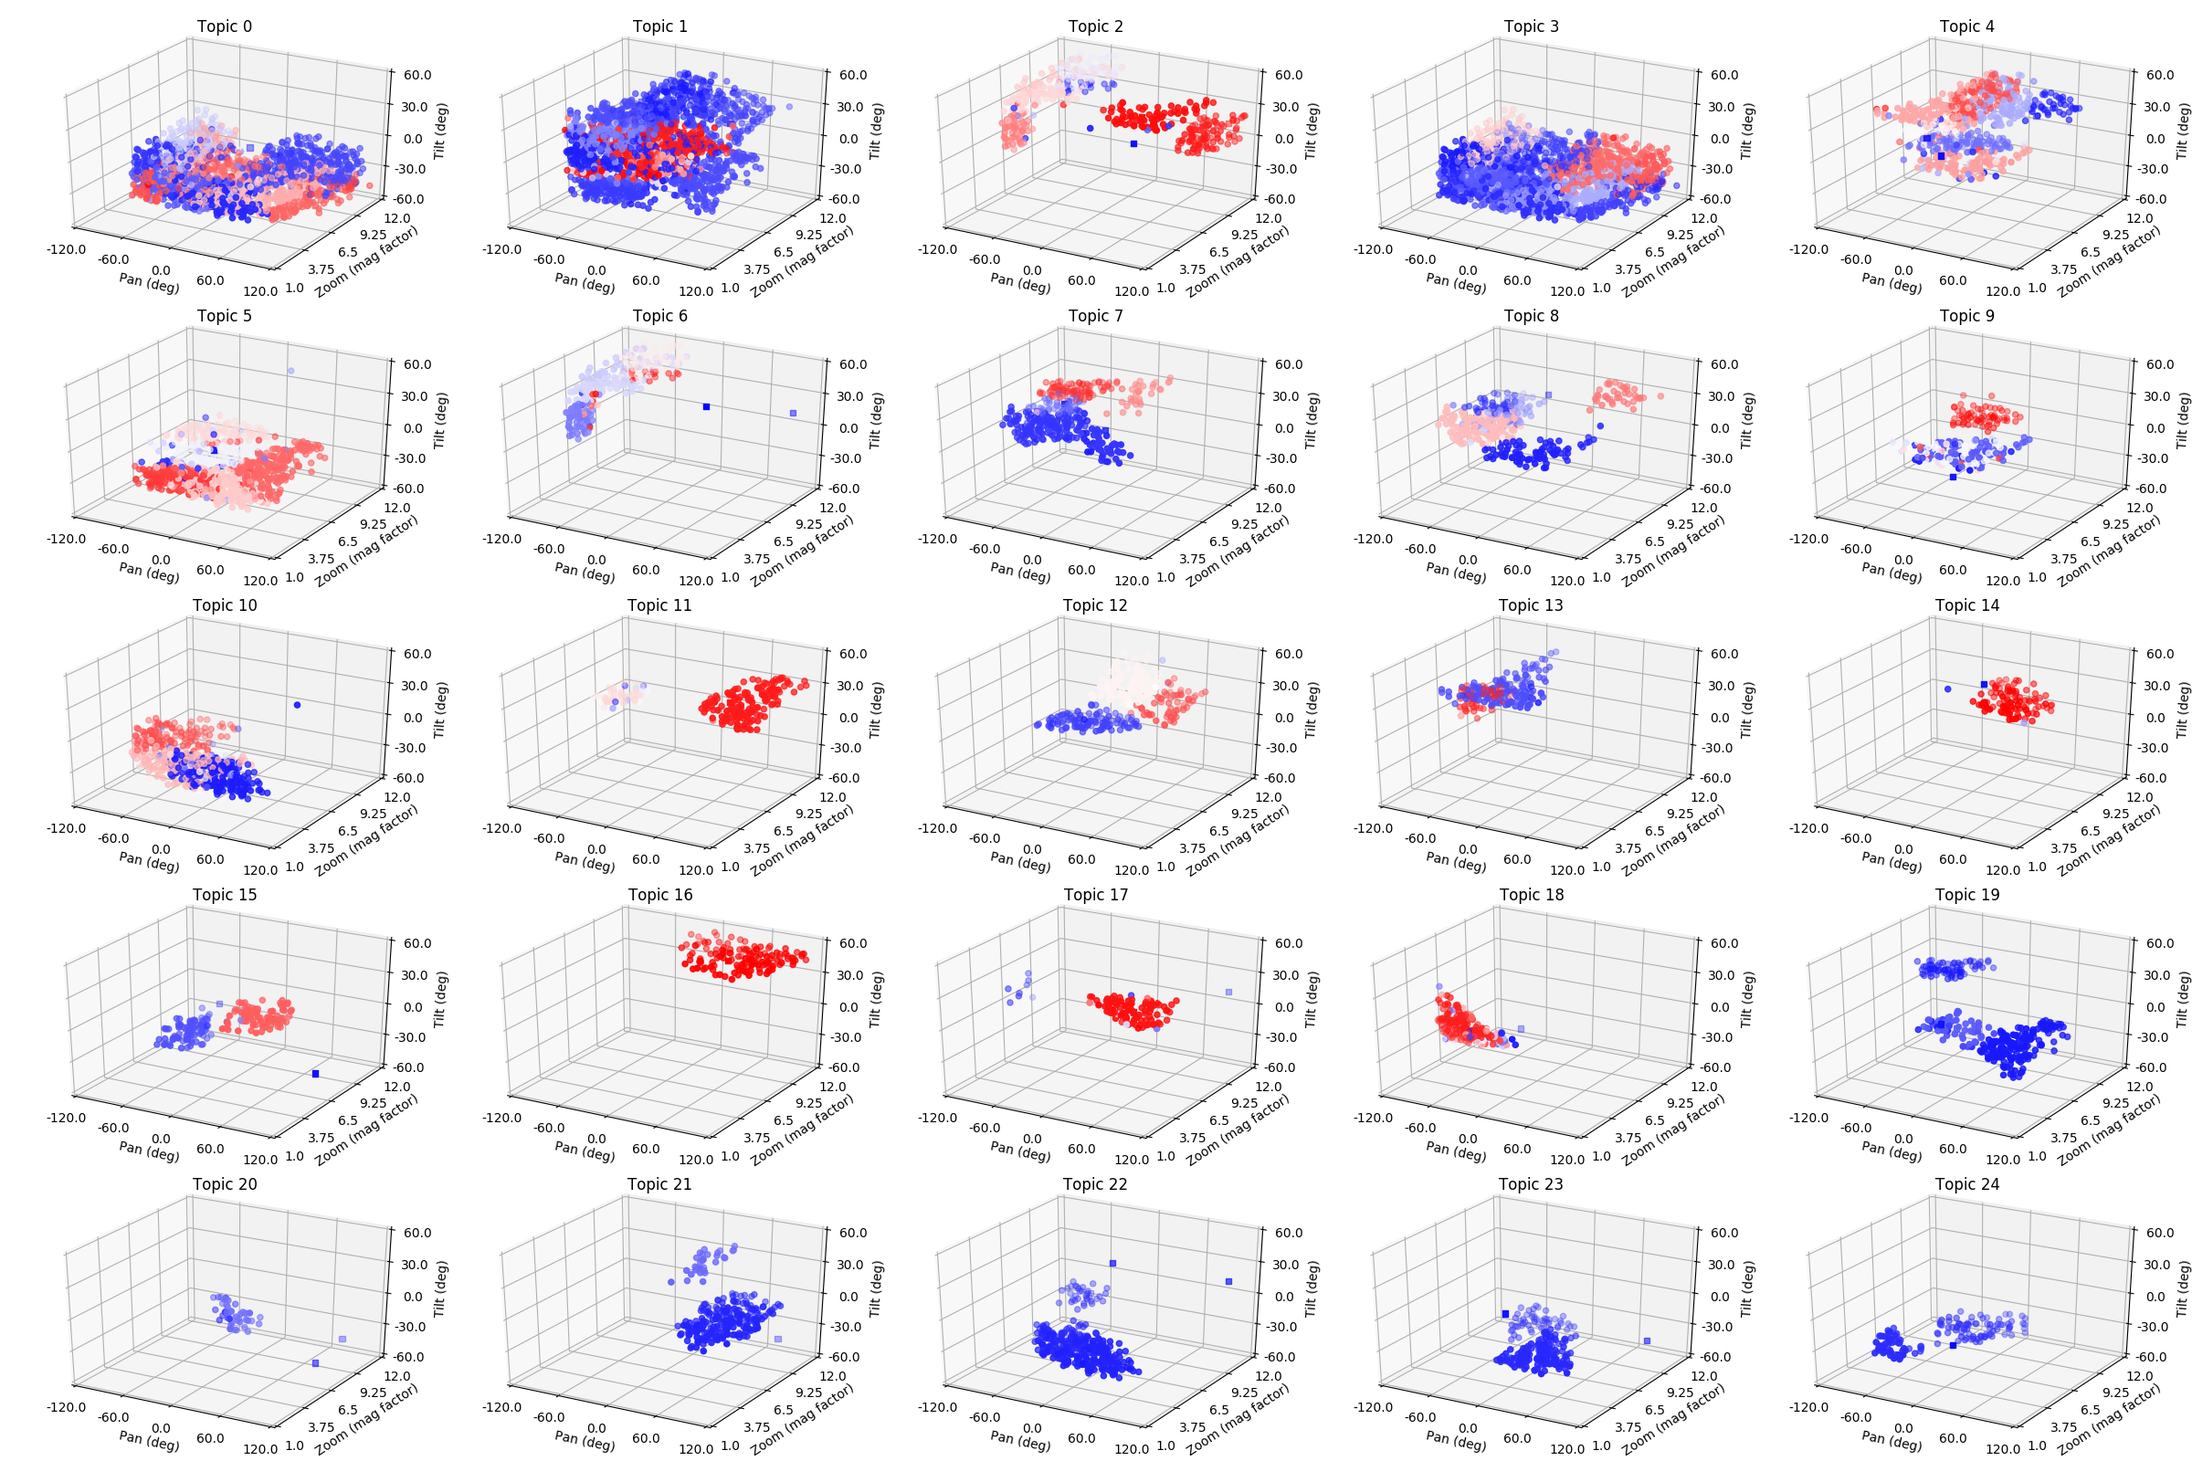
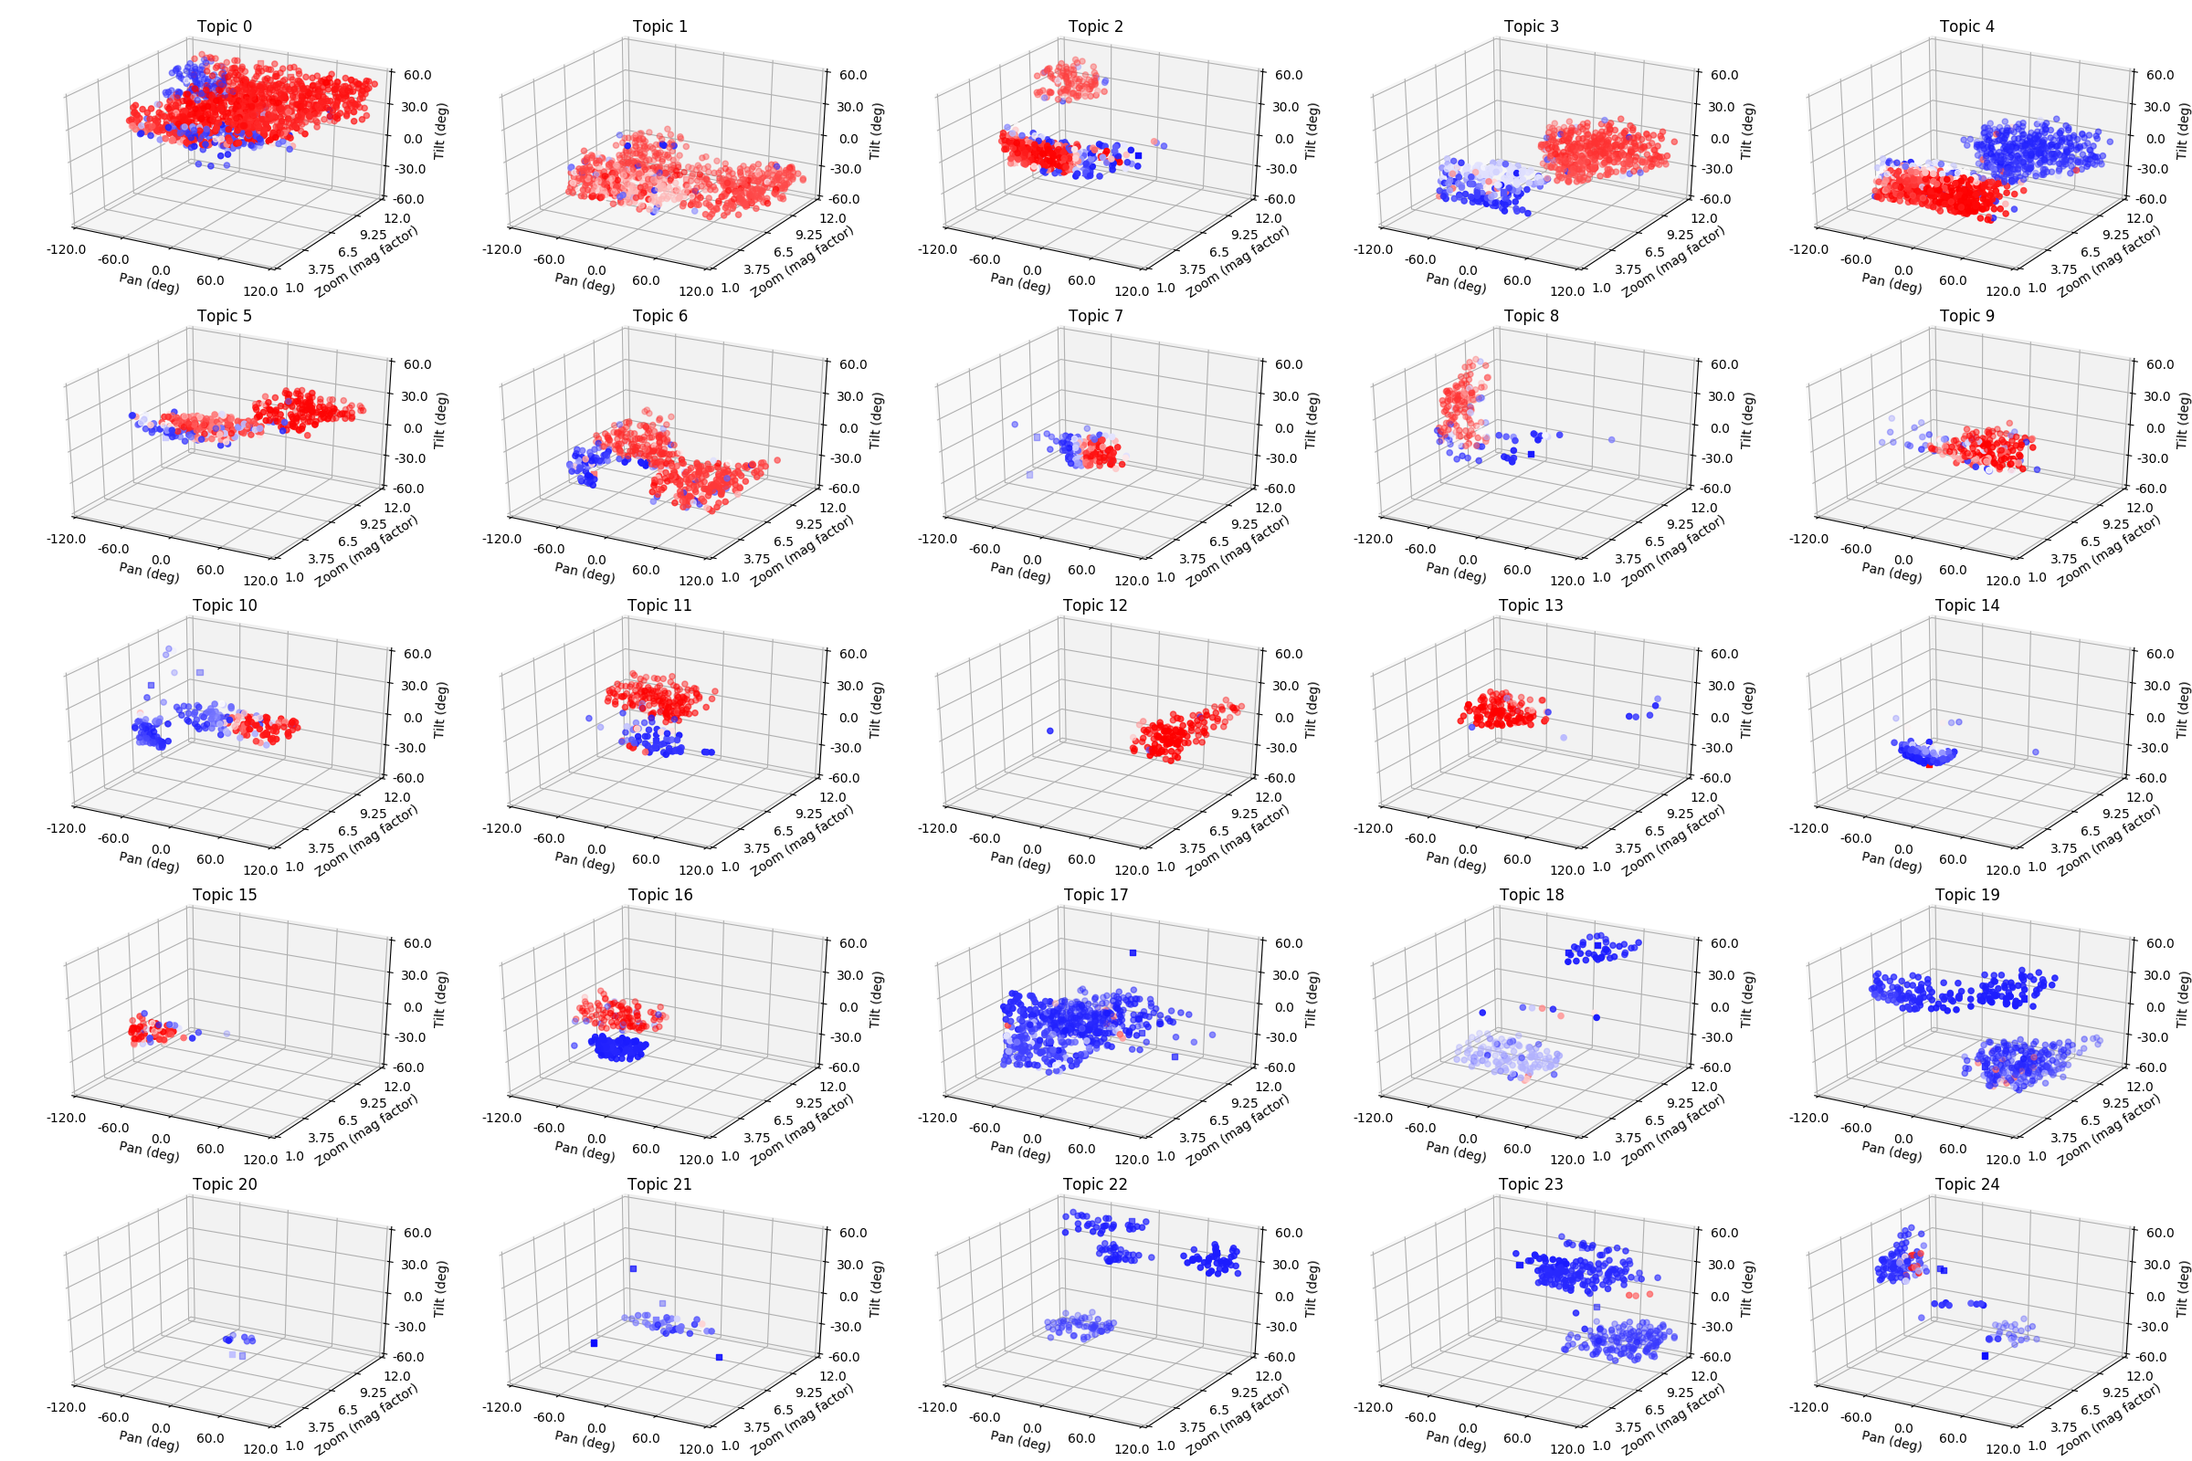
Finish up ptz chapter

diff --git a/ptz.tex b/ptz.tex
@@ -125,6 +125,8 @@ When the image corresponding to the new view is extracted its word distribution 
 
 We choose a spatio-temporal topic model with $K = 25$ topics and neighborhoods of size 10 deg $\times$ 20 deg $\times$ 6 (tilt $\times$ pan $\times$ zoom). This neighborhood size choice corresponds to the intuition that environments are semantically `smoother' in tilt than pan, and much smoother while zooming than moving the camera. We chose concentration parameter values $\alpha = 0.2,~\beta = 0.2$. We performed extensive cross validation to select these hyerparameter values values and certain other choices were found to perform much better for particular environments, however we did not find a combination of hyperparemeter values that was definitively much more performant than the others on average.
 
+\subsection{Results}
+
 Since we aim to demonstrate a real-time system that can learn about its surroundings relatively quickly, we stop learning after 50 observations. As a first inquiry into what the model has learned, we directly decode the MAP topic distributions $\hat{\Phi}$ by passing them through the CIB-AE decoder (See Figs.~\ref{fig:pano-0-topics},\ref{fig:pano-1-topics},\ref{fig:pano-2-topics}). Most other applications of visual topic models employ non-invertible feature functions and choose to inspect topics by looking at the most representative training images. To our knowledge, this is the first application of a visual topic model where the topics can be fully decoded and inspected directly as images.
 
 In addition, prediction with our spatial topic prior model is extremely efficient, so we are able to predict the topic priors for 10,000 random $P,T,Z$ views. In Figs.~\ref{fig:pano-0-map}, ~\ref{fig:pano-1-map}, and ~\ref{fig:pano-2-map} we present the resulting topic prior maps (one scatter plot per topic, in the same arrangement as the topic images), with the point $x_i$ omitted for topic $k$ if $\theta(x_i)_k < 0.01$, blue indicating $\theta(x)_k = 0.01$ and red $\theta(x)_k = 1$. Together, the decoded topics and view-topic maps provide an evocative graphical representation of how low-level textures combine into a higher level scene structure. After training, we collected 50 more views along with their inferred MAP topic priors (without performing any more refinement of $\Phi$). Among these observed views for each of the 35 test panoramas, we found $D_{JS}[\theta(x), \hat{\theta}]$ to be 0.2953 nats, while $D_{JS}[\mathrm{Unif}(K), \hat{\theta}]$ was on average 0.4122 nats\footnote{Recall $0 \leq D_{JS} \leq \ln(2) \approx 0.6931$}. This indicates that the topic mapping procedure is imperfect as is expected because of its weak geometric assumptions, nevertheless that it is better than a trivial strategy.
@@ -227,7 +229,7 @@ Fig.~\ref{fig:encoding-obs-strip} shows examples of the autoencoding performance
     \label{fig:encoding-strip}
 \end{figure}
 
-Fig.~\ref{fig:vs_vqvae} shows the RMSE for observed topic encodings and predicted topic priors compared to the real images at the corresponding views. They reflect our qualitative assesment that our method performs approximately as well as the VQ-VAE. However, despite our approach and the VQ-VAE having autoencodings that are clearly qualitatively better than the CAE, the distributions of RMSEs are surprisingly similar. This indicates that at this level of compression, RMSE is an imperfect performance measure.
+Fig.~\ref{fig:vs_vqvae} shows the RMSE for observed topic encodings and predicted topic priors compared to the real images at the corresponding views. The low extent of the CAE RMSE whisker reveals that the conservative collapsed strategy of consistently predicting uniform grayish images is not necessarily bad in terms of pure pixel error, drawing out an important flaw of the pixel error as a performance measure at this level of compression. Nevertheless, to the extent that the RMSE distributions measure performance in our view prediction task, the data confirm our qualitative assesment that our method performs approximately as well as the VQ-VAE on average. Further, the more colorful, highher contrast images produced by our method are reflected by its higher variance than the more conservative VQ-VAE approach which tends to encode roughly the right shape, but obscure much of the color and texture.
 
 \begin{figure}
     \begin{center}
@@ -240,24 +242,34 @@ Fig.~\ref{fig:vs_vqvae} shows the RMSE for observed topic encodings and predicte
         \label{fig:vs_vqvae_pred}
     }
     \end{center}
-    \caption{ Performance comparison of our topic-based autoencoder and spatial prediction system ($\theta$-Map) with a VQ-VAE and a standard CAE.
-    \protect\subref{fig:vs_vqvae_obs} Reconstruction performance of observed images (autoencoding with a very small bottleneck),
-    \protect\subref{fig:vs_vqvae_pred} View predictions performance after training with 50 uniform random pan-tilt-zoom poses. The shaded region in this violin plot represents the kernel density estimate (Scott bandwidth) for each method, while the extrema and medians are represented by the horizontal ticks.
-    (MSEs are computed with respect to pixel values in the range [0,255])
+    \caption{ Performance comparison of our topic prior map with a VQ-VAE and a standard CAE.
+    \protect\subref{fig:vs_vqvae_obs} Reconstruction performance for observed images (held out of training),
+    \protect\subref{fig:vs_vqvae_pred} View prediction performance after training. The dashed line shows the median reconstruction error of the CIB-AE on this dataset. The box in this plot represents the interquartile range, while the whiskers represent the range of typical data (2 times IQR). RMSEs are computed for each image with respect to pixel values in the range [0,255].
     }
     \label{fig:vs_vqvae}
 \end{figure}
 
 \subsection{Visual topic-mixture search}
+A second outcome of our work is a tool for exploring views in an environment through mixtures of topics. By directly decoding the topics, we are able to visually present a summary of the scene. Then, by providing an interface to specify a mixture of these topics, and performing a search within the topic-prior map, we enable a unique interaction that enables a user to visually explore an environment, as well as the information encoded by the topic model and the topic-prior map.
+
+\begin{figure}
+    \centering
+    \includegraphics[width=\textwidth]{figures/ptz/interaction.png}
+    \caption{Screenshot of visual topic-mixture search interaction. Counter-clockwise from Top-left: Direct decodings of 25 topics; numbers in each decoded topic indicate the proportion of the target mixture given to that topic. Decoding of the target-mixture. Sample from the view with the closest topic distribution given by our spatial prediction model: topic div gives the divergence between the predicted encoding and the target encoding. True image at the closest topic distribution. Demo video at \url{http://cim.mcgill.ca/~akalmbach/thesis/interaction_1.mp4}}
+    \label{fig:interaction}
+\end{figure}
 
 \section{Discussion}
 
-\todo[inline]{The role of the dropout layer}
-\todo[inline]{A true variational categorical autoencoder}
-\todo[inline]{Using geometry more to our advantage (bi-linear interpolation is great)}
-\todo[inline]{Supervised learning for a feature function}
-
 \subsection{Active learning}\label{sec:active-learning}
-As a complimentary task to learning a view prediction model, we also spent significant effort on the problem of \emph{efficiently} learning the view prediction model, that is, trying to accurately predict views in novel locations with as few training observations as possible. There is a rich literature on efficient online learning through careful spatial sampling, including classic work such as \citep{Seo2000,guestrin2005near}, work on image mosaicing such as \citep{sandeep_crv_2016}, and recent work on learning to predict camera views \citep{Jayaraman2017}. An overview of classic AL methods \citep{settles2012active}.
+As a complimentary task to learning the view prediction model, we also spent significant effort on the problem of \emph{efficiently} learning the view prediction model, that is, trying to accurately predict views in novel locations with as few training observations as possible. Although the specific model is novel, there is a rich literature on active learning (well summarized by \citep{settles2012active}), including many applications of efficient spatial sampling strategies drawing from the Gaussian Process (GP) models of \citep{Seo2000,guestrin2005near}. Recent work has touched on applications very similar to ours, such as determining where to take images to build a mosaic using a GP-based approach \citep{sandeep_crv_2016}, and which cells in a `view-grid' to observe to be able to predict the rest using a deep reinforcement learning based approach \citep{Jayaraman2017}.
 
-We experimented with using Gaussian Process based upper confidence bounds on both the cross-entropy $H\left[e(I_x) \| \theta_x\Phi \right]$ and $D_{KL}\left[e(I_x)_x \| \theta_x\Phi\right]$ as well as the predicted topic-prior entropy $H\left[\theta(x)\right]$ as acquisition functions determining the next-best sample location. We applied these acquisition functions to both the view-prediction problem and training a supervised classifier, however found that neither outperformed a uniform sampling strategy.
+We experimented with using GP-based upper confidence bounds on both the cross-entropy $H\left[e(I_x) \| \theta_x\Phi \right]$ and $D_{KL}\left[e(I_x)_x \| \theta_x\Phi\right]$ as well as using the predicted topic-prior entropy $H\left[\theta(x)\right]$ from our model as acquisition functions determining the best sample location given the set of previously observed ones. We applied these acquisition functions to both the view-prediction problem and training a supervised classifier, however found that neither outperformed a uniform sampling strategy. We did observe that these policies resulted in more observations of complex images as opposed to simple ones (such as all blue sky or gray asphalt), however spending more time learning from complex examples did not improve performance as measured by pixel MSE. It is our hypothesis that this was caused by a combination of biasing the topic model to use all its topics to describe a few small parts of the image (\emph{eg.} the cross-entropy method was very attracted to leaves if they were in the scene), and the limitations of MSE as a performance measurement for images with complex textures.
+
+\subsection{Getting more from geometry and training other feature function}
+Of note is the level of performance our model is able to achieve with a very simplistic geometric model. We use a Euclidean distance to place a prior on the similarity between views in both the topic model and the spatial prediction model. Clearly, however, there is more information to be gained from geometry in this problem. For instance, our feature does contain spatial information, so an edge in one location and the same edge translated or rotated to another location do not necessarily have similar encodings. This means that the natural categories in a panorama may need to be described by multiple very location specific topics with our model. Further, the spatial prediction model could benefit from more sophisticated geometry. A similar operation to our projection of rectangular panorama images to rectified views could be used to ensure that training images are used to fill in information for all overlapping views. Even the simplpest case of upsampling the center of a wide fov image to get information about a more zoomed in view would significantly improve our predictions.
+
+\todo[inline]{Supervised learning for a feature function. As an alternative, words could be used to represent something other than spatial objects that may fit better with the spatial smoothness prior.}
+
+\subsection{End-to-End Variational LDA Autoencoder}
+While the CIB-AE provides a slight modifications that can be made to many standard networks to produce encodings roughly compatible with the Dirichlet prior of LDA, it is natural to ask whether the full model can be learned end-to-end, and fine-tuned for particular environments instead of training a separate model. In fact, \citep{srivastava2017autoencoding} explores implementing the LDA prior for the latent space of a Variational autoencoder, and although the Dirichlet distribution resists exact reparameterization with a simple distribution as is used in other Variational autoencoders, they use a Laplace approximation to achieve comparable results to the standard mean-field variational approximation with much more flexibility. Although the extra dependencies in the spatio-temporal topic model are not compatible with the reparameterization used, we envision pre-training an LDA inference network similar to \citet{srivastava2017autoencoding} similar to our CIB-AE training procedure, and then using the resulting word encoder-decoder along with the Gibbs sampler spatio-temporal topic model, which could be initialilzed from the learned $\Phi$ matrix of the non-spatial topic model.

diff --git a/appendices.tex b/appendices.tex
@@ -45,6 +45,8 @@ CIB_AE(
 )
 \end{lstlisting}
 
+In our experiments we found that the single Dropout layer before the Softmax in the encoder was crucial. Without dropout, the encodings become overly sensitive to differences in the input images, and approximate encodings through our topic model and topic mapping algorithms are too different from real encodings to produce reasonable results.
+
 \begin{figure}
     \begin{center}
     \subfloat[]{
@@ -57,7 +59,7 @@ CIB_AE(
     }
     \end{center}
     \caption{
-    \protect\subref{fig:DownConvMod} DownConv and \protect\subref{fig:UpConvMod} UpConv modules used in our architecture. nci stands for number of channels in, nco number of channels out, and s the spatial resolution of the input representation. In our model, $nco = 2 nci$ for DownConvModules and $nco = nci/2$ for UpConvModules. Each block is made of a sequence of convolution, batch norm, nonlinear activation blocks. The last convolution of the UpConvModule does not include the batch norm and nonlinearities because the training images are standardized (ie pixel values can be both negative and positive).
+    \protect\subref{fig:DownConvMod} DownConv and \protect\subref{fig:UpConvMod} UpConv modules used in our architecture. nci stands for number of channels in, nco number of channels out, and s the spatial resolution of the input representation. In our model, $nco = 2 nci$ for DownConvModules and $nco = nci/2$ for UpConvModules. Each block is made of a sequence of convolution, batch norm, nonlinear activation blocks. The last convolution of the UpConvModule does not include the batch norm and nonlinearities because the training images are standardized (\emph{ie.} pixel values can be both negative and positive).
     }
     \label{fig:cib-ae_modules}
 \end{figure}

diff --git a/thesis.tex b/thesis.tex
@@ -87,7 +87,7 @@ the degree of Master of Computer Science}%
 
 \end{romanPagenumber} 
 
-%\mainmatter %
+\mainmatter %
 \include{intro}
 \include{topic_model}
 \include{classification}
